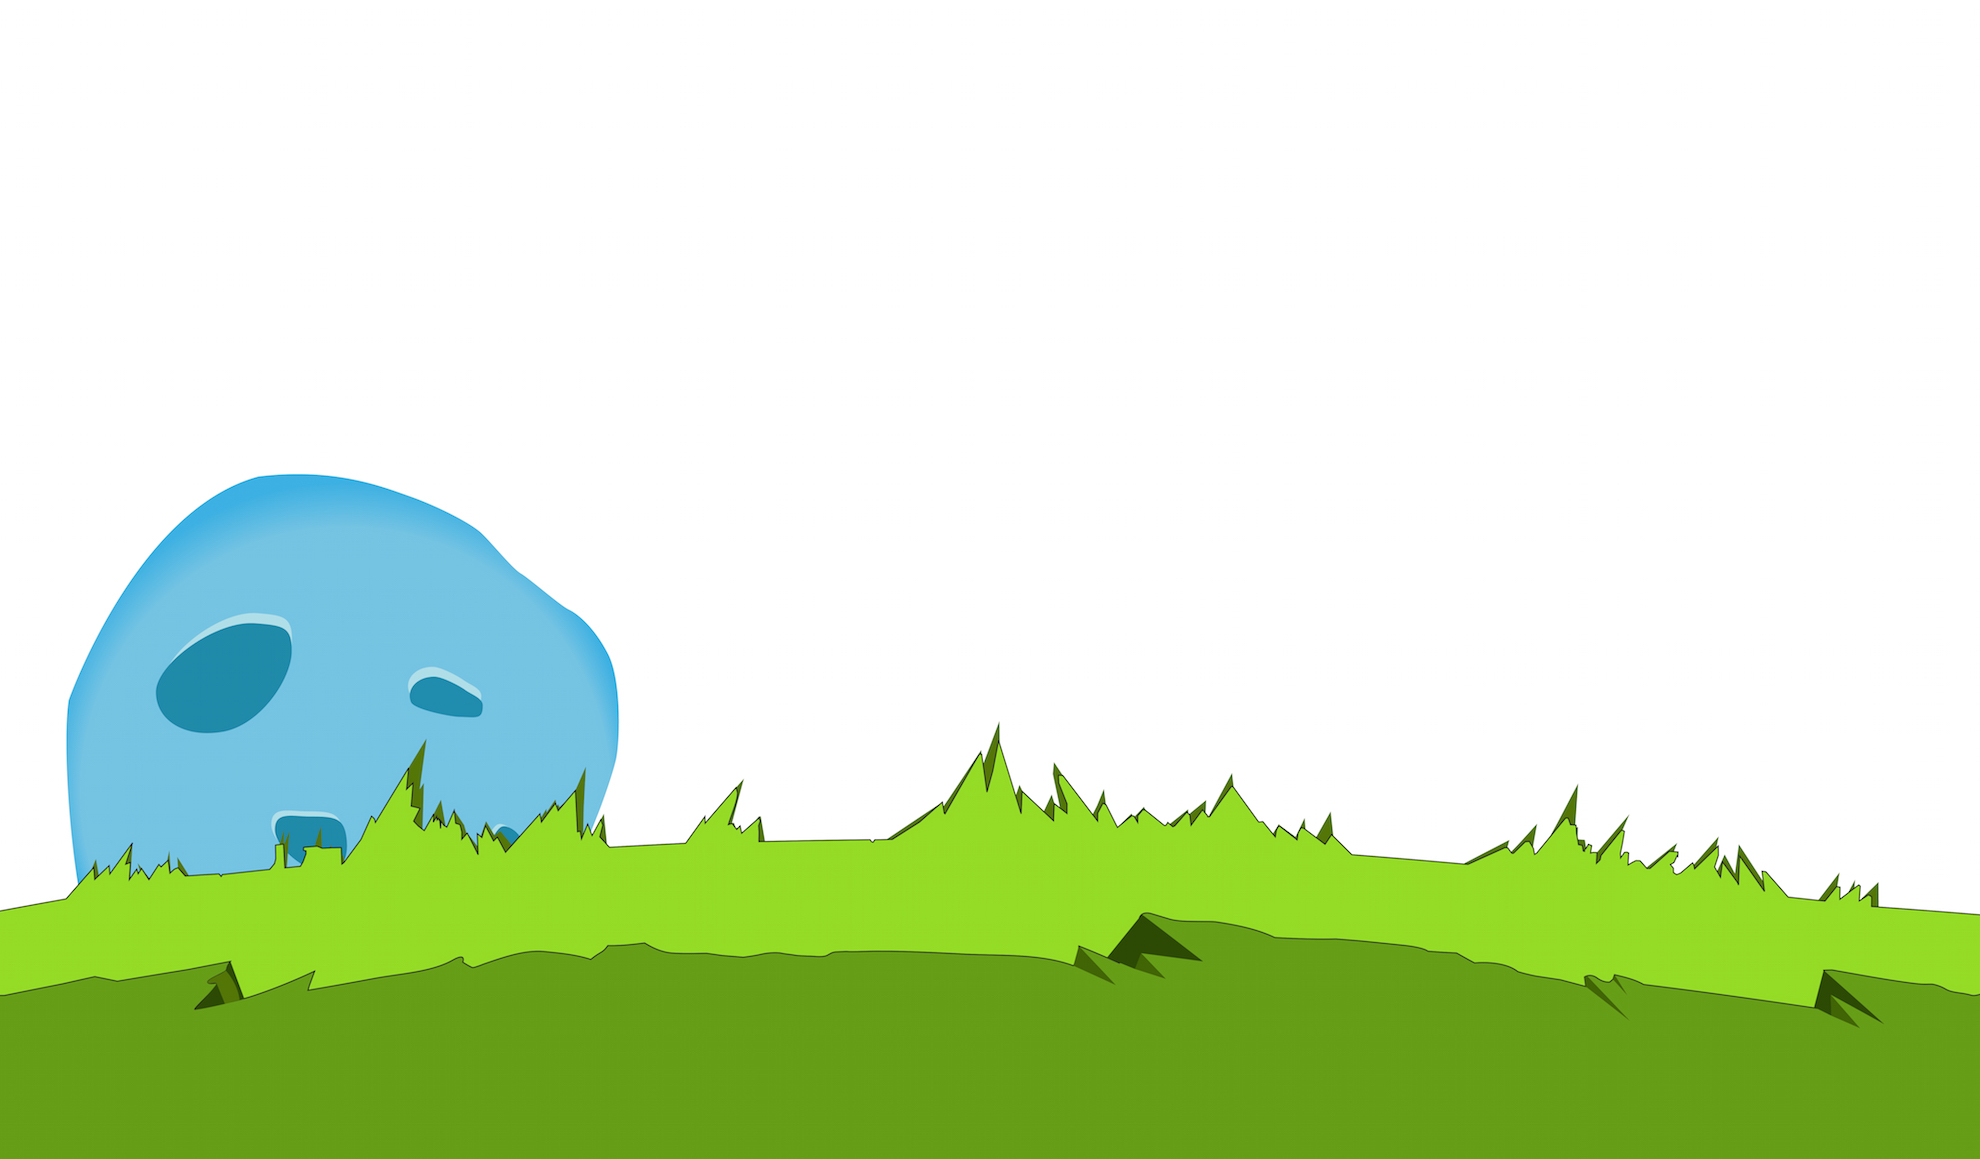
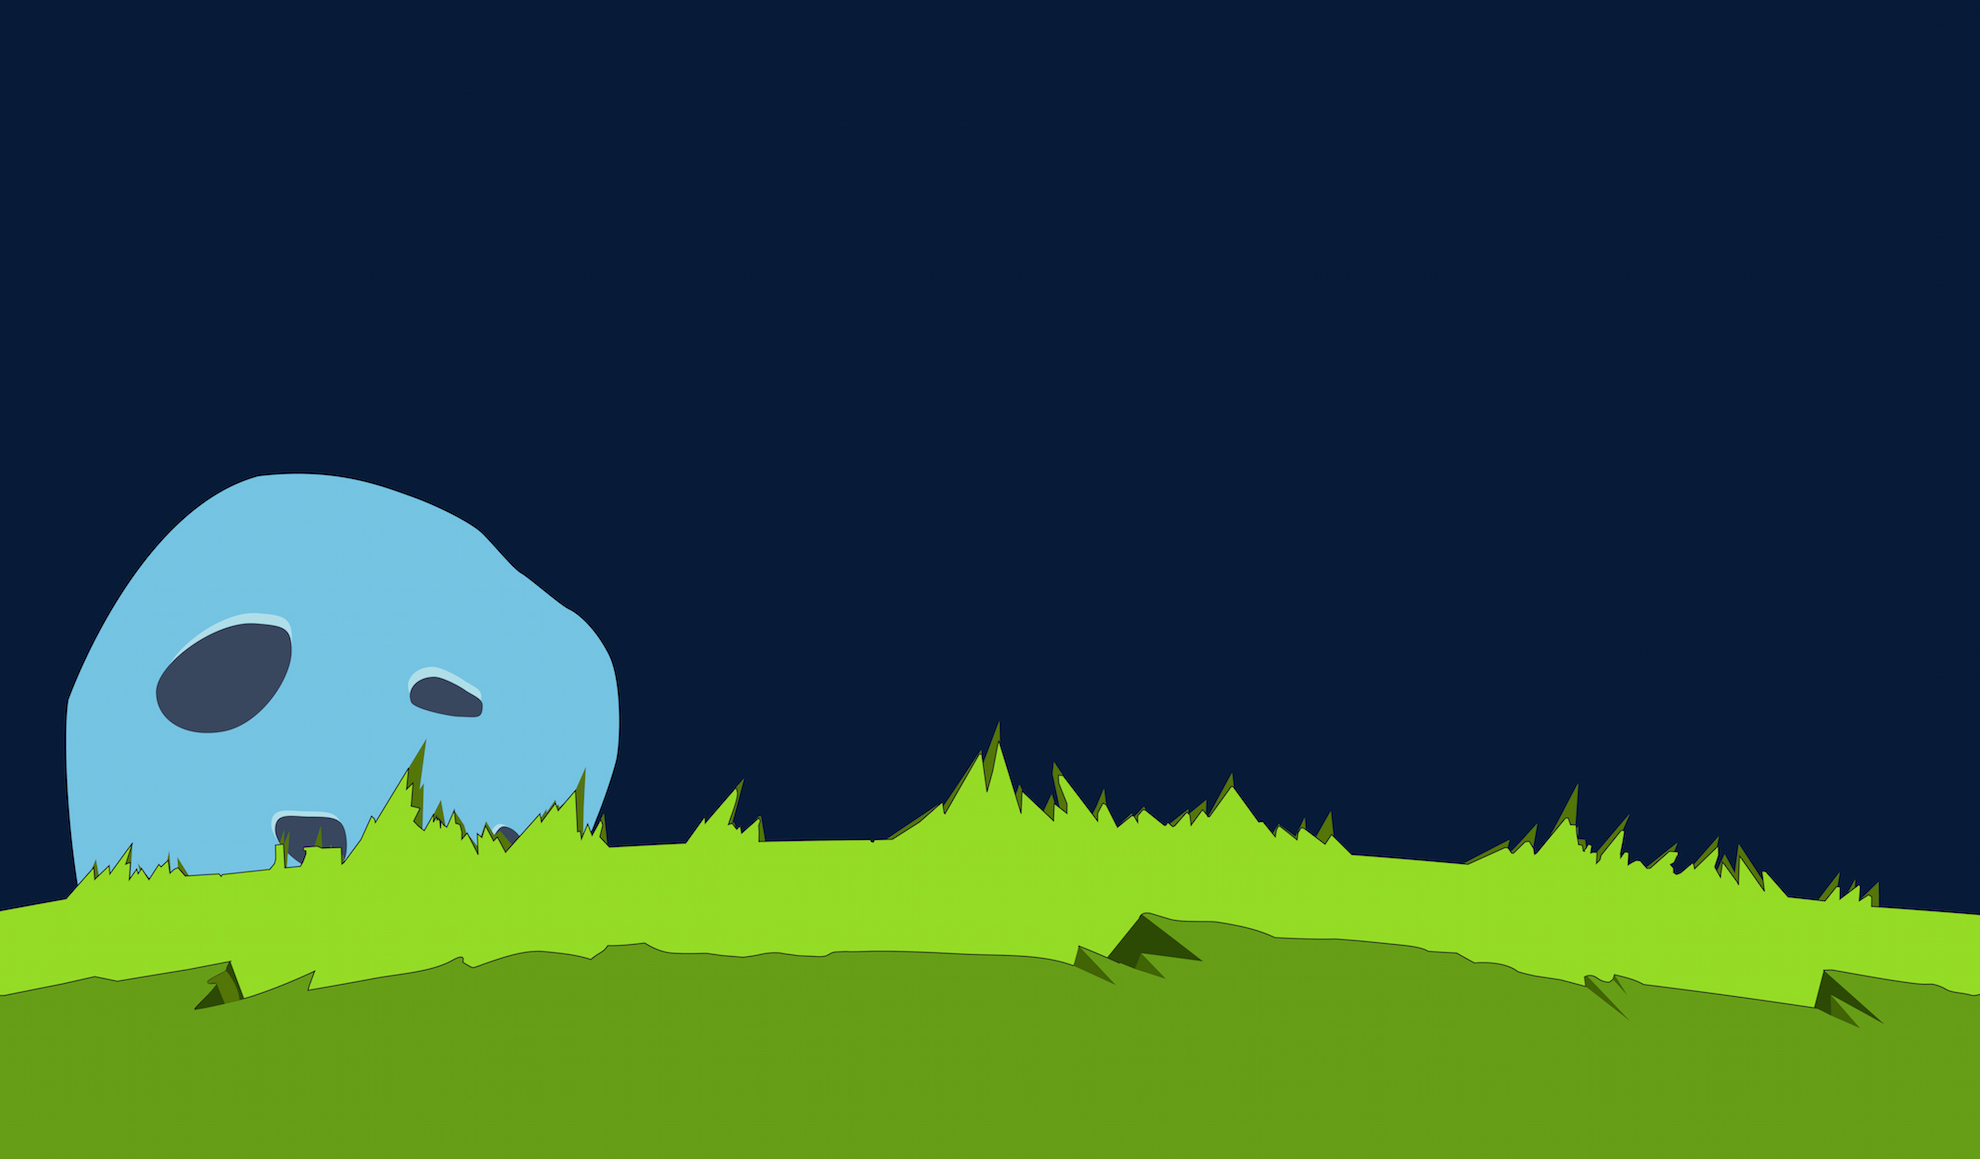
Transition commit

diff --git a/index.html b/index.html
@@ -72,7 +72,7 @@
 
 
   <!-- Section: services -->
-    <section id="service" class="home-section text-center bg-gray">
+    <section id="service" class="home-section text-center bg-dark">
 
     <div class="heading-about">
       <div class="container">
@@ -96,57 +96,19 @@
       </div>
     </div>
         <div class="row">
-            <div class="col-sm-3 col-md-3">
-        <div class="wow fadeInLeft" data-wow-delay="0.2s">
-                <div class="service-box">
-          <div class="service-icon">
-            <img src="img/icons/service-icon-1.png" alt="" />
-          </div>
-          <div class="service-desc">
-            <h5>Print</h5>
-            <p>Vestibulum tincidunt enim in pharetra malesuada. Duis semper magna metus electram accommodare.</p>
-          </div>
+            <div class="col-sm-4 col-md-4"></div>
+            <div class="col-sm-4 col-md-4">
+                <div class="wow fadeInLeft" data-wow-delay="0.2s">
+                    <div class="service-box">
+                          <div class="service-icon">
+                            <img src="img/icons/service-icon-1.png" alt="" />
+                          </div>
+                          <div class="service-desc">
+                            <h5>Print</h5>
+                            <p>Vestibulum tincidunt enim in pharetra malesuada. Duis semper magna metus electram accommodare.</p>
+                          </div>
+                    </div>
                 </div>
-        </div>
-            </div>
-      <div class="col-sm-3 col-md-3">
-        <div class="wow fadeInUp" data-wow-delay="0.2s">
-                <div class="service-box">
-          <div class="service-icon">
-            <img src="img/icons/service-icon-2.png" alt="" />
-          </div>
-          <div class="service-desc">
-            <h5>Web Design</h5>
-            <p>Vestibulum tincidunt enim in pharetra malesuada. Duis semper magna metus electram accommodare.</p>
-          </div>
-                </div>
-        </div>
-            </div>
-      <div class="col-sm-3 col-md-3">
-        <div class="wow fadeInUp" data-wow-delay="0.2s">
-                <div class="service-box">
-          <div class="service-icon">
-            <img src="img/icons/service-icon-3.png" alt="" />
-          </div>
-          <div class="service-desc">
-            <h5>Photography</h5>
-            <p>Vestibulum tincidunt enim in pharetra malesuada. Duis semper magna metus electram accommodare.</p>
-          </div>
-                </div>
-        </div>
-            </div>
-      <div class="col-sm-3 col-md-3">
-        <div class="wow fadeInRight" data-wow-delay="0.2s">
-                <div class="service-box">
-          <div class="service-icon">
-            <img src="img/icons/service-icon-4.png" alt="" />
-          </div>
-          <div class="service-desc">
-            <h5>Cloud System</h5>
-            <p>Vestibulum tincidunt enim in pharetra malesuada. Duis semper magna metus electram accommodare.</p>
-          </div>
-                </div>
-        </div>
             </div>
         </div>
     </div>
@@ -155,7 +117,7 @@
 
 
 	<!-- Section: about -->
-    <section id="about" class="home-section text-center">
+    <section id="about" class="home-section text-center bg-dark">
 		<div class="heading-about">
 			<div class="container">
 			<div class="row">
@@ -186,6 +148,7 @@
 					            <h5>Kelian Puppi</h5>
                       <p class="subtitle">Co-Founder & Game Developer</p>
                       <div class="avatar"><img src="img/team/1.jpg" alt="" class="img-responsive img-circle" /></div>
+                    
                   </div>
                 </div>
 				      </div>
@@ -208,13 +171,8 @@
 	<!-- /Section: about -->
 
 
-
-
-
-
-
 	<!-- Section: contact -->
-    <section id="contact" class="home-section text-center">
+    <section id="contact" class="home-section text-center footer-tweak bg-dark">
 		<div class="heading-contact">
 			<div class="container">
 			<div class="row">
@@ -223,7 +181,6 @@
 					<div class="section-heading">
 					<h2>Get in touch</h2>
 					<i class="fa fa-2x fa-angle-down"></i>
-
 					</div>
 					</div>
 				</div>
@@ -237,9 +194,8 @@
 				<hr class="marginbot-50">
 			</div>
 		</div>
-    <div class="row">
+    <div class="row boxed-grey">
         <div class="col-lg-8">
-            <div class="boxed-grey">
                 <form id="contact-form">
                 <div class="row">
                     <div class="col-md-6">
@@ -280,7 +236,6 @@
                     </div>
                 </div>
                 </form>
-            </div>
         </div>
 
 		<div class="col-lg-4">
@@ -314,25 +269,26 @@
     </div>
 
 		</div>
-	</section>
-	<!-- /Section: contact -->
 
-	<footer>
     <div class="container">
-      <div class="row">
+        
+      <div class="row custom-footer">
         <div class="col-md-12 col-lg-12">
           <div class="wow shake" data-wow-delay="0.4s">
-          <div class="page-scroll marginbot-30">
-            <a href="#intro" id="totop" class="btn btn-circle">
-              <i class="fa fa-angle-double-up animated"></i>
-            </a>
-          </div>
+            <div class="page-scroll marginbot-30">
+                <a href="#intro" id="totop" class="btn btn-circle">
+                  <i class="fa fa-angle-double-up animated"></i>
+                </a>
+            </div>
           </div>
           <p>&copy;Copyright 2014 - Squad. All rights reserved.</p>
         </div>
       </div>
     </div>
-	</footer>
+    <img id="footer-img" src="/img/ft1.jpg">    
+	</section>
+	<!-- /Section: contact -->
+
 
   <!-- Core JavaScript Files -->
   <script src="js/jquery.min.js"></script>

diff --git a/css/style.css b/css/style.css
@@ -268,9 +268,12 @@ hr {
 
 .section-heading h2 {
 	font-size: 40px;
+    color: #fafafa;
 }
+
 .section-heading i {
 	margin-bottom: 20px;
+    color: #fafafa;
 }
 
 
@@ -284,9 +287,9 @@ hr {
 	background: #f8f8f8;
 }
 
-
 .bg-dark {
-	background: #575757;
+	background: #051a37;
+    color: #fafafa;
 }
 
 /* --- section color var --- */
@@ -349,7 +352,7 @@ hr {
 }
 
 .intro .slogan h4 {
-	color: #fff;
+	color: #fafafa;
 	text-shadow: -1px 1px 1px #000;
 }
 
@@ -357,10 +360,9 @@ hr {
 /* ===========================
 --- About
 ============================ */
-
 .boxed-grey {
-	background: #f9f9f9;
-	padding: 20px;
+	background: #37465d;
+	padding: 20px;    
 }
 
 .team h5 {
@@ -427,7 +429,6 @@ hr {
 /* ===========================
 --- Services
 ============================ */
-
 .service-icon {
 	margin-bottom: 20px;
 }
@@ -444,7 +445,9 @@ form#contact-form .form-group label {
 	text-transform: uppercase;
 	letter-spacing: 1px;
 	font-size: 12px;
+    color: #fafafa;
 }
+
 form#contact-form input,form#contact-form select,form#contact-form textarea {
 	border-radius: 0;
 	border: 1px solid #eee;
@@ -464,6 +467,8 @@ form#contact-form input:focus,form#contact-form select:focus,form#contact-form t
 
 .widget-contact {
 	text-align: left;
+/*    color: #adadad;*/
+    color: #fafafa;
 }
 
 
@@ -524,11 +529,10 @@ form#contact-form input:focus,form#contact-form select:focus,form#contact-form t
 footer {
 	text-align: center;
 	padding: 50px 0 ;
-  background: url(/img/ft1.jpg) no-repeat bottom center;
 }
 
 footer p {
-	color: #f8f8f8;
+	color: #fafafa;
 }
 
 /* ==========================
@@ -610,19 +614,19 @@ Parallax
 .btn-circle:focus {
     outline: 0;
     color: #fff;
-    background: rgba(255,255,255,.1);
+    background: #669d17;
 }
 
 .btn-circle.btn-dark :hover,
 .btn-circle.btn-dark :focus {
     outline: 0;
-    color: #999;
-    background: #fff;
+    color: #669d17;
+    background: #fafafa;
 }
 
 .btn-circle.btn-dark :hover i,
 .btn-circle.btn-dark :focus i{
-    color: #999;
+    color: #669d17;
 }
 
 .page-scroll .btn-circle i.animated {
@@ -787,9 +791,31 @@ Parallax
 		height: 40px;
 		margin-top: 10px;
 		padding: 7px 0;
-		border: 2px solid #fff;
+		border: 2px solid #fafafa;
 		border-radius: 50%;
 		font-size: 20px;
 	}
 
+}
+
+
+/* CUSTOM */
+
+#footer-img{
+    top: 0;
+    left: 0;
+    z-index: -999;
+    position:absolute;
+}
+
+.footer-tweak{
+    position: relative;
+}
+
+.custom-footer{
+    margin-top: 200px;
+}
+
+.custom-footer p{
+    color: #fafafa;
 }
